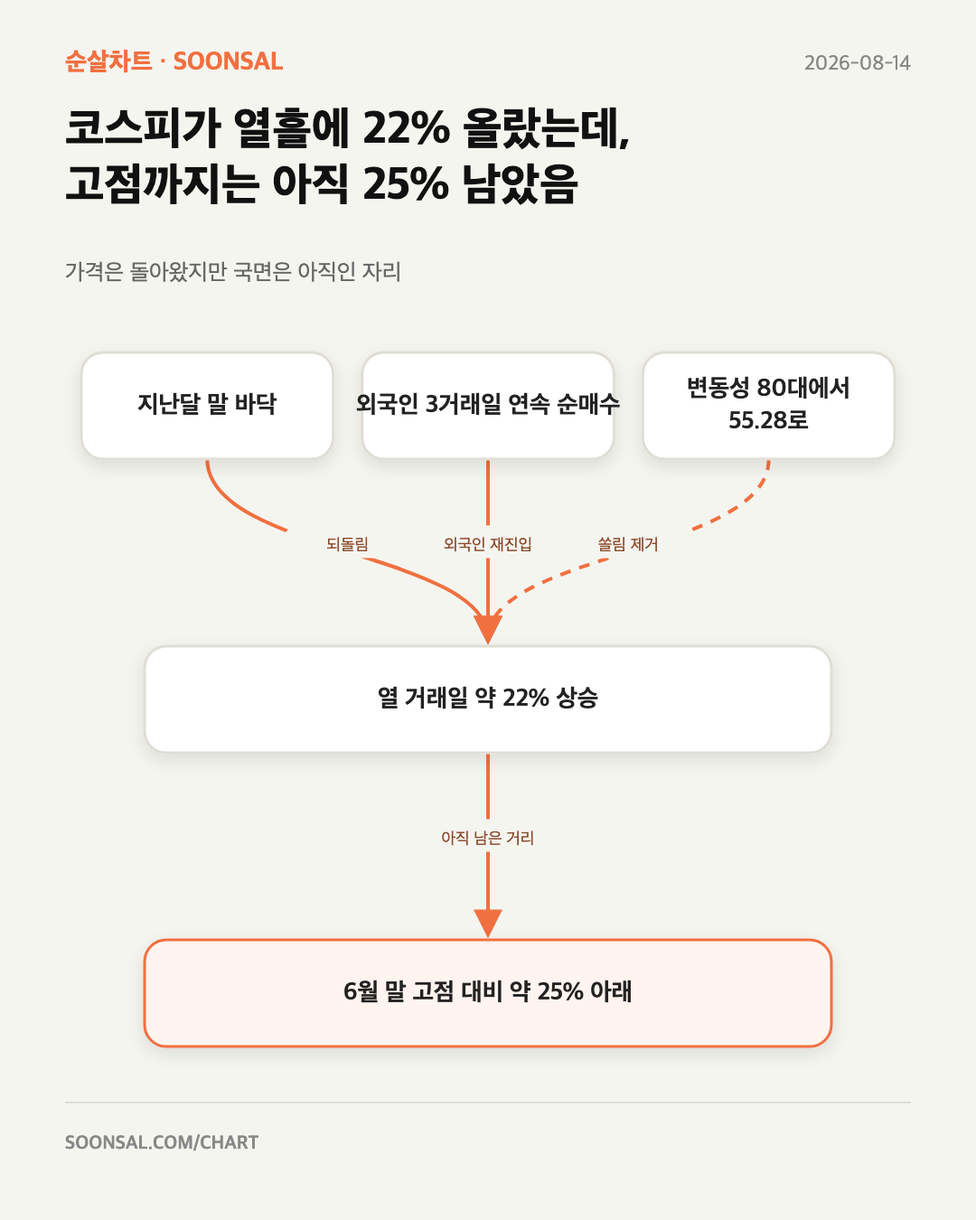
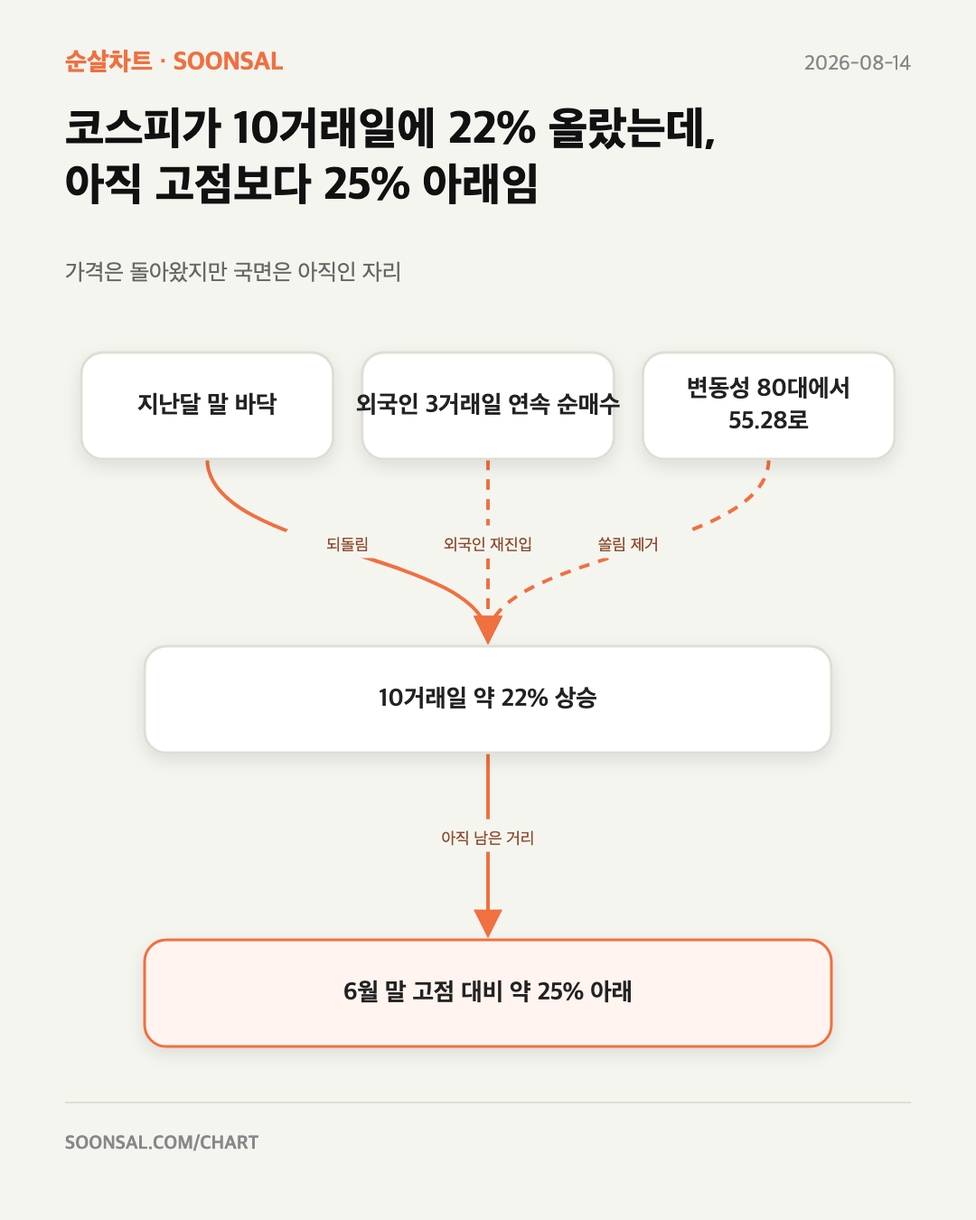
0814 검수 반영 — 발행 직전에 사실 오류 4건을 잡았다
팩트체커와 톤 검수를 처음으로 실제로 돌렸다. 인수인계표에 규칙으로
적혀 있는데 그동안 부르지 않았다.

사실 오류:
  S&P가 5% 올랐는데 내린 것처럼 읽히는 문장
  "고점까지 25% 남았음" — 고점 대비 25% 아래면 회복엔 33%가 필요하다
  유가가 오르는 중이라 썼는데 최신 창은 하락
  원천에 없는 "한국 수출기업 가격 경쟁 조건"

원천이 attributed 로만 쓴 것을 단정하던 자리, "Separately"로 갈라놓은
것을 인과로 잇던 도식 엣지도 함께 내렸다.

도식은 이제 글자를 자르지 않는다. 세 줄을 넘기면 말줄임표로 잘랐는데,
근거를 보여주는 그림에서 글자가 사라지면 그림이 거짓말을 한다. 박스
크기는 그대로 두고 폰트를 줄여 맞춘다.

숫자 검증이 영어 수사를 읽는다. 원천이 "ten sessions"라고 썼다고 우리가
"열 거래일"로 쓸 이유는 없다. 이제 "10거래일"로 쓴다.

Changed region(s): [[0.0611, 0.0622, 0.7333, 0.1867], [0.3667, 0.56, 0.6111, 0.5911]]

diff --git a/chart/2026/0814.html b/chart/2026/0814.html
@@ -173,58 +173,58 @@ color:#8a857c;text-decoration:none}
 <main class="content"><article class="story morning-topic topic-markets" id="pixel-memory" data-topic-theme="markets" data-ss-story="m20260814-pixel-memory" data-ss-issue="m20260814" style="--topic-accent:#8A4B42;--topic-wash:#F7F3EE;--topic-soft:#EAE1D8">
   <span class="story-index" aria-hidden="true">01</span>
   <div class="story-label">01 · 반도체 · 소비</div>
-  <h2 class="story-title">새 폰값이 100달러 오른 이유가, 메모리 부족임</h2>
-  <p class="opening bullet">구글이 새 픽셀을 내놓으면서 전 기종 값을 100달러 올렸음. 회사가 든 이유는 이어지는 메모리 공급 부족임</p>
-  <figure class="diagram-frame"><div class="diagram-live" role="img" aria-label="메모리 부족이 소비자 가격에 닿은 경로" data-diagram-src="/chart/assets/20260814/pixel-memory-diagram.svg?v=57ebdc0c0dd8" data-diagram-mobile-src="/chart/assets/20260814/pixel-memory-diagram-mobile.svg?v=6e73fe0741e6" data-diagram-orientation="TB"><picture class="diagram-poster"><source media="(max-width:720px)" srcset="/chart/assets/20260814/pixel-memory-diagram-mobile.svg?v=6e73fe0741e6"><img src="/chart/assets/20260814/pixel-memory-diagram.svg?v=57ebdc0c0dd8" alt="" aria-hidden="true" loading="lazy"></picture></div><button class="diagram-replay" type="button" aria-label="메모리 부족이 소비자 가격에 닿은 경로 애니메이션 다시 보기"><span aria-hidden="true">↻</span> 흐름 한 번 더</button><p class="diagram-tip">박스를 누르면 그 단계부터 다시 흐릅니다</p></figure>
+  <h2 class="story-title">새 폰값 100달러 인상, 메모리 부족 탓이라고 함</h2>
+  <p class="opening bullet">구글이 새 픽셀을 내놓으면서 전 기종 값을 100달러 올렸음. 이어지는 메모리 공급 부족 탓으로 알려졌음</p>
+  <figure class="diagram-frame"><div class="diagram-live" role="img" aria-label="메모리 부족이 소비자 가격에 닿은 경로" data-diagram-src="/chart/assets/20260814/pixel-memory-diagram.svg?v=236032d4ecb3" data-diagram-mobile-src="/chart/assets/20260814/pixel-memory-diagram-mobile.svg?v=0da14b1189ed" data-diagram-orientation="TB"><picture class="diagram-poster"><source media="(max-width:720px)" srcset="/chart/assets/20260814/pixel-memory-diagram-mobile.svg?v=0da14b1189ed"><img src="/chart/assets/20260814/pixel-memory-diagram.svg?v=236032d4ecb3" alt="" aria-hidden="true" loading="lazy"></picture></div><button class="diagram-replay" type="button" aria-label="메모리 부족이 소비자 가격에 닿은 경로 애니메이션 다시 보기"><span aria-hidden="true">↻</span> 흐름 한 번 더</button><p class="diagram-tip">박스를 누르면 그 단계부터 다시 흐릅니다</p></figure>
   <div class="soonsal-point"><strong>순살 포인트</strong><p>부품값이 오르는 국면과 완성품값이 오르는 국면은 투자자에게 다른 뜻임. 뒤쪽은 수요가 값을 견딜 수 있는지가 다음 질문이 됨</p></div>
 </article><article class="story morning-topic topic-fx" id="yen-trap" data-topic-theme="fx" data-ss-story="m20260814-yen-trap" data-ss-issue="m20260814" style="--topic-accent:#3E6A65;--topic-wash:#EDF5F2;--topic-soft:#D9EAE5">
   <span class="story-index" aria-hidden="true">02</span>
   <div class="story-label">02 · 환율 · 통화정책</div>
-  <h2 class="story-title">엔화를 지키면 성장이 죽고, 성장을 지키면 엔화가 죽음</h2>
-  <p class="opening bullet">일본 정부가 이례적으로 중앙은행의 조기 금리 인상을 지지하고 나섰음. 엔화는 달러당 159.50 부근으로 40년 만의 최저 수준임</p>
-  <figure class="diagram-frame"><div class="diagram-live" role="img" aria-label="엔화와 성장이 맞바꿔지는 자리" data-diagram-src="/chart/assets/20260814/yen-trap-diagram.svg?v=9f1239c2f2af" data-diagram-mobile-src="/chart/assets/20260814/yen-trap-diagram-mobile.svg?v=b085a6d30759" data-diagram-orientation="TB"><picture class="diagram-poster"><source media="(max-width:720px)" srcset="/chart/assets/20260814/yen-trap-diagram-mobile.svg?v=b085a6d30759"><img src="/chart/assets/20260814/yen-trap-diagram.svg?v=9f1239c2f2af" alt="" aria-hidden="true" loading="lazy"></picture></div><button class="diagram-replay" type="button" aria-label="엔화와 성장이 맞바꿔지는 자리 애니메이션 다시 보기"><span aria-hidden="true">↻</span> 흐름 한 번 더</button><p class="diagram-tip">박스를 누르면 그 단계부터 다시 흐릅니다</p></figure>
-  <div class="soonsal-point"><strong>순살 포인트</strong><p>160 부근은 아시아 통화 전체가 같이 흔들리는 자리라 원화도 무관하지 않음. 일본이 어느 쪽을 고르든 한국 수출기업의 가격 경쟁 조건이 따라 움직임</p></div>
+  <h2 class="story-title">엔화를 지키면 소비가 죽고, 소비를 지키면 엔화가 죽음</h2>
+  <p class="opening bullet">일본 정부가 중앙은행에 금리를 빨리 올리라고 힘을 싣는다는 보도가 나왔음. 엔화는 달러당 159.50 부근으로 40년 만의 최저 수준임</p>
+  <figure class="diagram-frame"><div class="diagram-live" role="img" aria-label="엔화와 성장이 맞바꿔지는 자리" data-diagram-src="/chart/assets/20260814/yen-trap-diagram.svg?v=ced1612f9dfd" data-diagram-mobile-src="/chart/assets/20260814/yen-trap-diagram-mobile.svg?v=80725129e134" data-diagram-orientation="TB"><picture class="diagram-poster"><source media="(max-width:720px)" srcset="/chart/assets/20260814/yen-trap-diagram-mobile.svg?v=80725129e134"><img src="/chart/assets/20260814/yen-trap-diagram.svg?v=ced1612f9dfd" alt="" aria-hidden="true" loading="lazy"></picture></div><button class="diagram-replay" type="button" aria-label="엔화와 성장이 맞바꿔지는 자리 애니메이션 다시 보기"><span aria-hidden="true">↻</span> 흐름 한 번 더</button><p class="diagram-tip">박스를 누르면 그 단계부터 다시 흐릅니다</p></figure>
+  <div class="soonsal-point"><strong>순살 포인트</strong><p>160 부근은 원화를 포함한 아시아 통화가 같이 흔들리는 자리임. 일본이 어느 쪽으로 가든 그 파장이 원화까지 온다는 뜻임</p></div>
 </article><article class="story morning-topic topic-markets" id="pokemon-index" data-topic-theme="markets" data-ss-story="m20260814-pokemon-index" data-ss-issue="m20260814" style="--topic-accent:#8A4B42;--topic-wash:#F7F3EE;--topic-soft:#EAE1D8">
   <span class="story-index" aria-hidden="true">03</span>
   <div class="story-label">03 · 가상자산 · 투자심리</div>
   <h2 class="story-title">포켓몬 카드가 비트코인도 지수도 이겼음</h2>
-  <p class="opening bullet">지난 석 달 포켓몬 카드 지수가 약 29.4% 올랐음. 같은 기간 미국 대표 지수는 약 5%, 비트코인은 약 20% 내렸음</p>
-  <figure class="diagram-frame"><div class="diagram-live" role="img" aria-label="돈이 코인에서 카드로 옮겨 앉은 자리" data-diagram-src="/chart/assets/20260814/pokemon-index-diagram.svg?v=3bb5dcfc0a63" data-diagram-mobile-src="/chart/assets/20260814/pokemon-index-diagram-mobile.svg?v=4b99195b345e" data-diagram-orientation="TB"><picture class="diagram-poster"><source media="(max-width:720px)" srcset="/chart/assets/20260814/pokemon-index-diagram-mobile.svg?v=4b99195b345e"><img src="/chart/assets/20260814/pokemon-index-diagram.svg?v=3bb5dcfc0a63" alt="" aria-hidden="true" loading="lazy"></picture></div><button class="diagram-replay" type="button" aria-label="돈이 코인에서 카드로 옮겨 앉은 자리 애니메이션 다시 보기"><span aria-hidden="true">↻</span> 흐름 한 번 더</button><p class="diagram-tip">박스를 누르면 그 단계부터 다시 흐릅니다</p></figure>
+  <p class="opening bullet">지난 3개월 포켓몬 카드 지수가 약 29.4% 올랐음. 같은 기간 미국 대표 지수는 약 5% 올랐고, 비트코인은 약 20% 내렸음</p>
+  <figure class="diagram-frame"><div class="diagram-live" role="img" aria-label="돈이 코인에서 카드로 옮겨 앉은 자리" data-diagram-src="/chart/assets/20260814/pokemon-index-diagram.svg?v=2b03756badc7" data-diagram-mobile-src="/chart/assets/20260814/pokemon-index-diagram-mobile.svg?v=37813df5acea" data-diagram-orientation="TB"><picture class="diagram-poster"><source media="(max-width:720px)" srcset="/chart/assets/20260814/pokemon-index-diagram-mobile.svg?v=37813df5acea"><img src="/chart/assets/20260814/pokemon-index-diagram.svg?v=2b03756badc7" alt="" aria-hidden="true" loading="lazy"></picture></div><button class="diagram-replay" type="button" aria-label="돈이 코인에서 카드로 옮겨 앉은 자리 애니메이션 다시 보기"><span aria-hidden="true">↻</span> 흐름 한 번 더</button><p class="diagram-tip">박스를 누르면 그 단계부터 다시 흐릅니다</p></figure>
   <div class="soonsal-point"><strong>순살 포인트</strong><p>값이 오르는 곳이 반드시 그 자산이 좋아졌다는 뜻은 아님. 어디서 돈이 빠져나와 어디로 갔는지가 더 자주 답임</p></div>
 </article><article class="story morning-topic topic-markets" id="record-vs-longend" data-topic-theme="markets" data-ss-story="m20260814-record-vs-longend" data-ss-issue="m20260814" style="--topic-accent:#8A4B42;--topic-wash:#F7F3EE;--topic-soft:#EAE1D8">
   <span class="story-index" aria-hidden="true">04</span>
   <div class="story-label">04 · 금리 · 거시경제</div>
   <h2 class="story-title">주가는 사상 최고인데, 30년 국채 금리도 25년 만에 최고임</h2>
   <p class="opening bullet">미국 대표 지수가 7,798.99로 사상 최고를 새로 썼음. 같은 국면에 30년 국채는 5.216%에 팔렸고, 이는 2001년 이후 가장 높은 조달 금리임</p>
-  <figure class="diagram-frame"><div class="diagram-live" role="img" aria-label="지수와 장기 금리가 갈라선 자리" data-diagram-src="/chart/assets/20260814/record-vs-longend-diagram.svg?v=213023f7ac20" data-diagram-mobile-src="/chart/assets/20260814/record-vs-longend-diagram-mobile.svg?v=c284f99a470c" data-diagram-orientation="TB"><picture class="diagram-poster"><source media="(max-width:720px)" srcset="/chart/assets/20260814/record-vs-longend-diagram-mobile.svg?v=c284f99a470c"><img src="/chart/assets/20260814/record-vs-longend-diagram.svg?v=213023f7ac20" alt="" aria-hidden="true" loading="lazy"></picture></div><button class="diagram-replay" type="button" aria-label="지수와 장기 금리가 갈라선 자리 애니메이션 다시 보기"><span aria-hidden="true">↻</span> 흐름 한 번 더</button><p class="diagram-tip">박스를 누르면 그 단계부터 다시 흐릅니다</p></figure>
-  <div class="soonsal-point"><strong>순살 포인트</strong><p>지수가 오른 이유와 금리가 오른 이유가 다르면, 둘 중 하나는 곧 조정됨. 한국 증시는 미국 장기 금리에 붙어 있어 이 간극이 그대로 넘어옴</p></div>
+  <figure class="diagram-frame"><div class="diagram-live" role="img" aria-label="지수와 장기 금리가 갈라선 자리" data-diagram-src="/chart/assets/20260814/record-vs-longend-diagram.svg?v=213023f7ac20" data-diagram-mobile-src="/chart/assets/20260814/record-vs-longend-diagram-mobile.svg?v=75772c7ec842" data-diagram-orientation="TB"><picture class="diagram-poster"><source media="(max-width:720px)" srcset="/chart/assets/20260814/record-vs-longend-diagram-mobile.svg?v=75772c7ec842"><img src="/chart/assets/20260814/record-vs-longend-diagram.svg?v=213023f7ac20" alt="" aria-hidden="true" loading="lazy"></picture></div><button class="diagram-replay" type="button" aria-label="지수와 장기 금리가 갈라선 자리 애니메이션 다시 보기"><span aria-hidden="true">↻</span> 흐름 한 번 더</button><p class="diagram-tip">박스를 누르면 그 단계부터 다시 흐릅니다</p></figure>
+  <div class="soonsal-point"><strong>순살 포인트</strong><p>지수가 오른 이유와 금리가 오른 이유가 다름. 여기서 지수가 더 오르려면 할인율이 아니라 실적이 밀어 올려야 함. 한국 증시는 미국 장기 금리에 붙어 있어 이 간극이 그대로 넘어옴</p></div>
 </article><article class="story morning-topic topic-ai" id="lease-shadow" data-topic-theme="ai" data-ss-story="m20260814-lease-shadow" data-ss-issue="m20260814" style="--topic-accent:#4D6F8A;--topic-wash:#EEF4F7;--topic-soft:#DDE9EF">
   <span class="story-index" aria-hidden="true">05</span>
   <div class="story-label">05 · AI · 신용</div>
   <h2 class="story-title">데이터센터 임차 약정 대부분이, 장부 밖에 있음</h2>
-  <p class="opening bullet">대형 클라우드 사업자의 데이터센터 임차 약정 가운데 장부에 잡힌 몫은 일부뿐임. 아직 시작되지 않아 주석에만 적힌 약정이 그 다섯 배 규모임</p>
-  <figure class="diagram-frame"><div class="diagram-live" role="img" aria-label="장부 밖에 쌓이는 AI 설비 약정" data-diagram-src="/chart/assets/20260814/lease-shadow-diagram.svg?v=178e62c99695" data-diagram-mobile-src="/chart/assets/20260814/lease-shadow-diagram-mobile.svg?v=bddd99a9b171" data-diagram-orientation="TB"><picture class="diagram-poster"><source media="(max-width:720px)" srcset="/chart/assets/20260814/lease-shadow-diagram-mobile.svg?v=bddd99a9b171"><img src="/chart/assets/20260814/lease-shadow-diagram.svg?v=178e62c99695" alt="" aria-hidden="true" loading="lazy"></picture></div><button class="diagram-replay" type="button" aria-label="장부 밖에 쌓이는 AI 설비 약정 애니메이션 다시 보기"><span aria-hidden="true">↻</span> 흐름 한 번 더</button><p class="diagram-tip">박스를 누르면 그 단계부터 다시 흐릅니다</p></figure>
+  <p class="opening bullet">대형 클라우드 사업자의 데이터센터 임차 약정 가운데 장부에 잡힌 몫은 일부뿐임. 아직 시작되지 않아 주석에만 적힌 약정이 그 5배 규모임</p>
+  <figure class="diagram-frame"><div class="diagram-live" role="img" aria-label="장부 밖에 쌓이는 AI 설비 약정" data-diagram-src="/chart/assets/20260814/lease-shadow-diagram.svg?v=bb1046ca5d90" data-diagram-mobile-src="/chart/assets/20260814/lease-shadow-diagram-mobile.svg?v=b738d4dc85aa" data-diagram-orientation="TB"><picture class="diagram-poster"><source media="(max-width:720px)" srcset="/chart/assets/20260814/lease-shadow-diagram-mobile.svg?v=b738d4dc85aa"><img src="/chart/assets/20260814/lease-shadow-diagram.svg?v=bb1046ca5d90" alt="" aria-hidden="true" loading="lazy"></picture></div><button class="diagram-replay" type="button" aria-label="장부 밖에 쌓이는 AI 설비 약정 애니메이션 다시 보기"><span aria-hidden="true">↻</span> 흐름 한 번 더</button><p class="diagram-tip">박스를 누르면 그 단계부터 다시 흐릅니다</p></figure>
   <div class="soonsal-point"><strong>순살 포인트</strong><p>AI 투자 규모를 장부만 보고 재면 실제보다 작게 잡힘. 설비·기자재 발주 전망도 같은 눈으로 걸러야 함</p></div>
 </article><article class="story morning-topic topic-markets" id="kospi-rebound" data-topic-theme="markets" data-ss-story="m20260814-kospi-rebound" data-ss-issue="m20260814" style="--topic-accent:#8A4B42;--topic-wash:#F7F3EE;--topic-soft:#EAE1D8">
   <span class="story-index" aria-hidden="true">06</span>
   <div class="story-label">06 · 한국 시장 · 반도체</div>
-  <h2 class="story-title">코스피가 열흘에 22% 올랐는데, 고점까지는 아직 25% 남았음</h2>
-  <p class="opening bullet">코스피가 6,813.34로 3.56% 올라 15거래일 만에 6,800선을 되찾았음. 지난달 말 바닥 이후 열 거래일 동안 약 22% 오른 자리임</p>
-  <figure class="diagram-frame"><div class="diagram-live" role="img" aria-label="가격은 돌아왔지만 국면은 아직인 자리" data-diagram-src="/chart/assets/20260814/kospi-rebound-diagram.svg?v=a9633766babb" data-diagram-mobile-src="/chart/assets/20260814/kospi-rebound-diagram-mobile.svg?v=3306a92747e8" data-diagram-orientation="TB"><picture class="diagram-poster"><source media="(max-width:720px)" srcset="/chart/assets/20260814/kospi-rebound-diagram-mobile.svg?v=3306a92747e8"><img src="/chart/assets/20260814/kospi-rebound-diagram.svg?v=a9633766babb" alt="" aria-hidden="true" loading="lazy"></picture></div><button class="diagram-replay" type="button" aria-label="가격은 돌아왔지만 국면은 아직인 자리 애니메이션 다시 보기"><span aria-hidden="true">↻</span> 흐름 한 번 더</button><p class="diagram-tip">박스를 누르면 그 단계부터 다시 흐릅니다</p></figure>
+  <h2 class="story-title">코스피가 10거래일에 22% 올랐는데, 아직 고점보다 25% 아래임</h2>
+  <p class="opening bullet">코스피가 6,813.34로 3.56% 올라 15거래일 만에 6,800선을 되찾았음. 지난달 말 바닥 이후 10거래일 동안 약 22% 오른 자리임</p>
+  <figure class="diagram-frame"><div class="diagram-live" role="img" aria-label="가격은 돌아왔지만 국면은 아직인 자리" data-diagram-src="/chart/assets/20260814/kospi-rebound-diagram.svg?v=a8ff080f9ad8" data-diagram-mobile-src="/chart/assets/20260814/kospi-rebound-diagram-mobile.svg?v=f1709aeceab4" data-diagram-orientation="TB"><picture class="diagram-poster"><source media="(max-width:720px)" srcset="/chart/assets/20260814/kospi-rebound-diagram-mobile.svg?v=f1709aeceab4"><img src="/chart/assets/20260814/kospi-rebound-diagram.svg?v=a8ff080f9ad8" alt="" aria-hidden="true" loading="lazy"></picture></div><button class="diagram-replay" type="button" aria-label="가격은 돌아왔지만 국면은 아직인 자리 애니메이션 다시 보기"><span aria-hidden="true">↻</span> 흐름 한 번 더</button><p class="diagram-tip">박스를 누르면 그 단계부터 다시 흐릅니다</p></figure>
   <div class="soonsal-point"><strong>순살 포인트</strong><p>반등의 성격이 수급인지 실적인지에 따라 다음 구간이 갈림. 외국인이 계속 사는지, 미국 장기 금리가 버텨주는지 두 가지를 같이 봐야 함</p></div>
 </article><article class="story morning-topic topic-markets" id="leverage-curb" data-topic-theme="markets" data-ss-story="m20260814-leverage-curb" data-ss-issue="m20260814" style="--topic-accent:#8A4B42;--topic-wash:#F7F3EE;--topic-soft:#EAE1D8">
   <span class="story-index" aria-hidden="true">07</span>
   <div class="story-label">07 · 한국 시장 · 규제</div>
-  <h2 class="story-title">레버리지 상품 거래가 급감했고, 새로 들어오려면 모의투자 5일을 해야 함</h2>
-  <p class="opening bullet">현금 증거금 요건을 올린 뒤 레버리지 상장지수상품 거래가 크게 줄었음. 개별 종목 레버리지 상품에 새로 들어오는 투자자는 최소 닷새의 모의거래를 마쳐야 함</p>
-  <figure class="diagram-frame"><div class="diagram-live" role="img" aria-label="규제가 진폭을 걷어낸 자리" data-diagram-src="/chart/assets/20260814/leverage-curb-diagram.svg?v=d643c44f5ad5" data-diagram-mobile-src="/chart/assets/20260814/leverage-curb-diagram-mobile.svg?v=65620d228ae7" data-diagram-orientation="TB"><picture class="diagram-poster"><source media="(max-width:720px)" srcset="/chart/assets/20260814/leverage-curb-diagram-mobile.svg?v=65620d228ae7"><img src="/chart/assets/20260814/leverage-curb-diagram.svg?v=d643c44f5ad5" alt="" aria-hidden="true" loading="lazy"></picture></div><button class="diagram-replay" type="button" aria-label="규제가 진폭을 걷어낸 자리 애니메이션 다시 보기"><span aria-hidden="true">↻</span> 흐름 한 번 더</button><p class="diagram-tip">박스를 누르면 그 단계부터 다시 흐릅니다</p></figure>
+  <h2 class="story-title">레버리지 상품 거래가 급감했고, 새로 들어오려면 모의거래 5일을 해야 함</h2>
+  <p class="opening bullet">현금 증거금 요건을 올린 뒤 레버리지 상장지수상품 거래가 크게 줄었음. 개별 종목 레버리지 상품에 새로 들어오는 투자자는 최소 5일의 모의거래를 마쳐야 함</p>
+  <figure class="diagram-frame"><div class="diagram-live" role="img" aria-label="규제가 진폭을 걷어낸 자리" data-diagram-src="/chart/assets/20260814/leverage-curb-diagram.svg?v=a42500749a16" data-diagram-mobile-src="/chart/assets/20260814/leverage-curb-diagram-mobile.svg?v=202645c31a6b" data-diagram-orientation="TB"><picture class="diagram-poster"><source media="(max-width:720px)" srcset="/chart/assets/20260814/leverage-curb-diagram-mobile.svg?v=202645c31a6b"><img src="/chart/assets/20260814/leverage-curb-diagram.svg?v=a42500749a16" alt="" aria-hidden="true" loading="lazy"></picture></div><button class="diagram-replay" type="button" aria-label="규제가 진폭을 걷어낸 자리 애니메이션 다시 보기"><span aria-hidden="true">↻</span> 흐름 한 번 더</button><p class="diagram-tip">박스를 누르면 그 단계부터 다시 흐릅니다</p></figure>
   <div class="soonsal-point"><strong>순살 포인트</strong><p>규제가 시장을 죽였는지 살렸는지는 방향이 아니라 진폭으로 봐야 함. 개인 자금이 어디로 옮겨 가는지가 다음 관전 지점임</p></div>
 </article><article class="story morning-topic topic-markets" id="grocery-creep" data-topic-theme="markets" data-ss-story="m20260814-grocery-creep" data-ss-issue="m20260814" style="--topic-accent:#8A4B42;--topic-wash:#F7F3EE;--topic-soft:#EAE1D8">
   <span class="story-index" aria-hidden="true">08</span>
   <div class="story-label">08 · 물가 · 소비</div>
   <h2 class="story-title">식품값은 한 번 오르면, 충격이 지나가도 안 내려옴</h2>
   <p class="opening bullet">지난 반년 동안 토마토·상추에 이어 사과까지 값이 뛰었음. 앞서 커피와 소고기, 달걀이 같은 길을 지나갔음</p>
-  <figure class="diagram-frame"><div class="diagram-live" role="img" aria-label="지표는 내려가는데 장바구니는 안 내려가는 자리" data-diagram-src="/chart/assets/20260814/grocery-creep-diagram.svg?v=e73092e2a9ef" data-diagram-mobile-src="/chart/assets/20260814/grocery-creep-diagram-mobile.svg?v=622eda15770d" data-diagram-orientation="TB"><picture class="diagram-poster"><source media="(max-width:720px)" srcset="/chart/assets/20260814/grocery-creep-diagram-mobile.svg?v=622eda15770d"><img src="/chart/assets/20260814/grocery-creep-diagram.svg?v=e73092e2a9ef" alt="" aria-hidden="true" loading="lazy"></picture></div><button class="diagram-replay" type="button" aria-label="지표는 내려가는데 장바구니는 안 내려가는 자리 애니메이션 다시 보기"><span aria-hidden="true">↻</span> 흐름 한 번 더</button><p class="diagram-tip">박스를 누르면 그 단계부터 다시 흐릅니다</p></figure>
+  <figure class="diagram-frame"><div class="diagram-live" role="img" aria-label="지표는 내려가는데 장바구니는 안 내려가는 자리" data-diagram-src="/chart/assets/20260814/grocery-creep-diagram.svg?v=67017669545f" data-diagram-mobile-src="/chart/assets/20260814/grocery-creep-diagram-mobile.svg?v=fe07c4da26a7" data-diagram-orientation="TB"><picture class="diagram-poster"><source media="(max-width:720px)" srcset="/chart/assets/20260814/grocery-creep-diagram-mobile.svg?v=fe07c4da26a7"><img src="/chart/assets/20260814/grocery-creep-diagram.svg?v=67017669545f" alt="" aria-hidden="true" loading="lazy"></picture></div><button class="diagram-replay" type="button" aria-label="지표는 내려가는데 장바구니는 안 내려가는 자리 애니메이션 다시 보기"><span aria-hidden="true">↻</span> 흐름 한 번 더</button><p class="diagram-tip">박스를 누르면 그 단계부터 다시 흐릅니다</p></figure>
   <div class="soonsal-point"><strong>순살 포인트</strong><p>물가 지표가 좋아졌다는 말과 장바구니가 가벼워졌다는 말은 다름. 이 간극이 길어지면 정책보다 정치가 먼저 움직임</p></div>
 </article></main>
 <footer class="memo-footer"><nav class="page-nav" aria-label="순살차트 둘러보기"><a href="/chart/">지난 순살차트 보기 →</a></nav></footer></div>

diff --git a/chart/index.html b/chart/index.html
@@ -156,8 +156,8 @@ color:#8a857c;text-decoration:none}
 <nav class="nav" aria-label="주요 메뉴"><a href="/newsletters/">뉴스레터</a><a href="/chart/" class="active">순살차트</a><a href="/talk/">순살톡</a><a href="/school/" class="nav-desktop-link">스쿨</a><a href="/collab/" class="nav-desktop-link biz">협업 문의</a><details class="nav-more"><summary>더보기 <span aria-hidden="true">⌄</span></summary><section class="nav-menu" aria-label="추가 메뉴"><a href="/topics/">주제별</a><a href="/saved/">내가 모은 글</a><a href="/cardnews/">카드뉴스</a><a href="/youtube/">YouTube</a><a href="/school/" class="nav-mobile-only">스쿨</a><a href="/collab/" class="nav-mobile-only biz">협업 문의</a></section></details></nav>
 <main class="archive-shell"><header class="archive-head"><div class="archive-kicker">날짜별 시장 정리</div><h1>순살차트</h1><p class="deck">날짜를 고르고, 궁금한 주제부터 바로 봄</p></header><section class="archive-list" aria-label="날짜별 순살차트"><article class="issue-card latest">
   <header class="issue-date"><time datetime="2026-08-14">2026-08-14</time><span class="latest-badge">최신</span><span class="issue-count">8개 주제</span></header>
-  <a class="lead-chart" href="2026/0814.html#record-vs-longend" aria-label="주가는 사상 최고인데, 30년 국채 금리도 25년 만에 최고임 핵심 차트 보기"><span class="lead-chart-kicker">오늘의 핵심 차트</span><span class="lead-chart-title">주가는 사상 최고인데, 30년 국채 금리도 25년 만에 최고임</span><img src="/chart/assets/20260814/record-vs-longend-diagram-mobile.svg" alt="" loading="eager"></a>
-  <details class="issue-topics"><summary class="issue-head" aria-label="2026-08-14 나머지 주제 목록 접기 또는 펼치기"><span class="issue-more-icon" aria-hidden="true">＋</span><span class="issue-more-copy"><strong><em>7</em>개 차트 더 보기</strong><small>오늘 시장의 다른 흐름도 한 번에</small></span><span class="issue-toggle" aria-hidden="true">⌄</span></summary><div class="issue-body"><ol class="topic-list" aria-label="2026-08-14 나머지 주제 목록"><li><a href="2026/0814.html#pixel-memory"><span class="topic-no">01</span><span class="topic-title">새 폰값이 100달러 오른 이유가, <span class="topic-highlight">메모리 부족</span>임</span><span class="topic-go" aria-hidden="true">→</span></a></li><li><a href="2026/0814.html#yen-trap"><span class="topic-no">02</span><span class="topic-title">엔화를 지키면 성장이 죽고, 성장을 지키면 엔화가 죽음</span><span class="topic-go" aria-hidden="true">→</span></a></li><li><a href="2026/0814.html#pokemon-index"><span class="topic-no">03</span><span class="topic-title">포켓몬 카드가 비트코인도 지수도 이겼음</span><span class="topic-go" aria-hidden="true">→</span></a></li><li><a href="2026/0814.html#lease-shadow"><span class="topic-no">05</span><span class="topic-title">데이터센터 임차 약정 대부분이, 장부 밖에 있음</span><span class="topic-go" aria-hidden="true">→</span></a></li><li><a href="2026/0814.html#kospi-rebound"><span class="topic-no">06</span><span class="topic-title">코스피가 열흘에 22% 올랐는데, 고점까지는 <span class="topic-highlight">아직 25%</span> 남았음</span><span class="topic-go" aria-hidden="true">→</span></a></li><li><a href="2026/0814.html#leverage-curb"><span class="topic-no">07</span><span class="topic-title">레버리지 상품 거래가 급감했고, 새로 들어오려면 <span class="topic-highlight">모의투자 5일</span>을 해야 함</span><span class="topic-go" aria-hidden="true">→</span></a></li><li><a href="2026/0814.html#grocery-creep"><span class="topic-no">08</span><span class="topic-title">식품값은 한 번 오르면, 충격이 지나가도 <span class="topic-highlight">안 내려옴</span></span><span class="topic-go" aria-hidden="true">→</span></a></li></ol><a class="issue-all" href="2026/0814.html">이날 순살차트 전체 보기 <span aria-hidden="true">→</span></a></div></details>
+  <a class="lead-chart" href="2026/0814.html#record-vs-longend" aria-label="주가는 사상 최고인데, 30년 국채 금리도 25년 만에 최고임 핵심 차트 보기"><span class="lead-chart-kicker">오늘의 핵심 차트</span><span class="lead-chart-title">주가는 사상 최고인데, 30년 국채 금리도 <span class="topic-highlight">25년 만에 최고</span>임</span><img src="/chart/assets/20260814/record-vs-longend-diagram-mobile.svg" alt="" loading="eager"></a>
+  <details class="issue-topics"><summary class="issue-head" aria-label="2026-08-14 나머지 주제 목록 접기 또는 펼치기"><span class="issue-more-icon" aria-hidden="true">＋</span><span class="issue-more-copy"><strong><em>7</em>개 차트 더 보기</strong><small>오늘 시장의 다른 흐름도 한 번에</small></span><span class="issue-toggle" aria-hidden="true">⌄</span></summary><div class="issue-body"><ol class="topic-list" aria-label="2026-08-14 나머지 주제 목록"><li><a href="2026/0814.html#pixel-memory"><span class="topic-no">01</span><span class="topic-title">새 폰값 100달러 인상, <span class="topic-highlight">메모리 부족</span> 탓이라고 함</span><span class="topic-go" aria-hidden="true">→</span></a></li><li><a href="2026/0814.html#yen-trap"><span class="topic-no">02</span><span class="topic-title">엔화를 지키면 <span class="topic-highlight">소비가 죽고</span>, 소비를 지키면 엔화가 죽음</span><span class="topic-go" aria-hidden="true">→</span></a></li><li><a href="2026/0814.html#pokemon-index"><span class="topic-no">03</span><span class="topic-title"><span class="topic-highlight">포켓몬 카드</span>가 비트코인도 지수도 이겼음</span><span class="topic-go" aria-hidden="true">→</span></a></li><li><a href="2026/0814.html#lease-shadow"><span class="topic-no">05</span><span class="topic-title">데이터센터 임차 약정 대부분이, <span class="topic-highlight">장부 밖에</span> 있음</span><span class="topic-go" aria-hidden="true">→</span></a></li><li><a href="2026/0814.html#kospi-rebound"><span class="topic-no">06</span><span class="topic-title">코스피가 10거래일에 22% 올랐는데, 아직 고점보다 25% 아래임</span><span class="topic-go" aria-hidden="true">→</span></a></li><li><a href="2026/0814.html#leverage-curb"><span class="topic-no">07</span><span class="topic-title">레버리지 상품 거래가 급감했고, 새로 들어오려면 <span class="topic-highlight">모의거래 5일</span>을 해야 함</span><span class="topic-go" aria-hidden="true">→</span></a></li><li><a href="2026/0814.html#grocery-creep"><span class="topic-no">08</span><span class="topic-title">식품값은 한 번 오르면, 충격이 지나가도 <span class="topic-highlight">안 내려옴</span></span><span class="topic-go" aria-hidden="true">→</span></a></li></ol><a class="issue-all" href="2026/0814.html">이날 순살차트 전체 보기 <span aria-hidden="true">→</span></a></div></details>
 </article><article class="issue-card">
   <header class="issue-date"><time datetime="2026-08-13">2026-08-13</time><span class="issue-count">9개 주제</span></header>
   <a class="lead-chart" href="2026/0813.html#cpi-hike-trade" aria-label="미국은 인상 명분이 옅어졌는데, 한국은행은 더 올리겠다고 함 핵심 차트 보기"><span class="lead-chart-kicker">오늘의 핵심 차트</span><span class="lead-chart-title">미국은 인상 명분이 옅어졌는데, 한국은행은 더 올리겠다고 함</span><img src="/chart/assets/20260813/cpi-hike-trade-diagram-mobile.svg" alt="" loading="lazy"></a>
